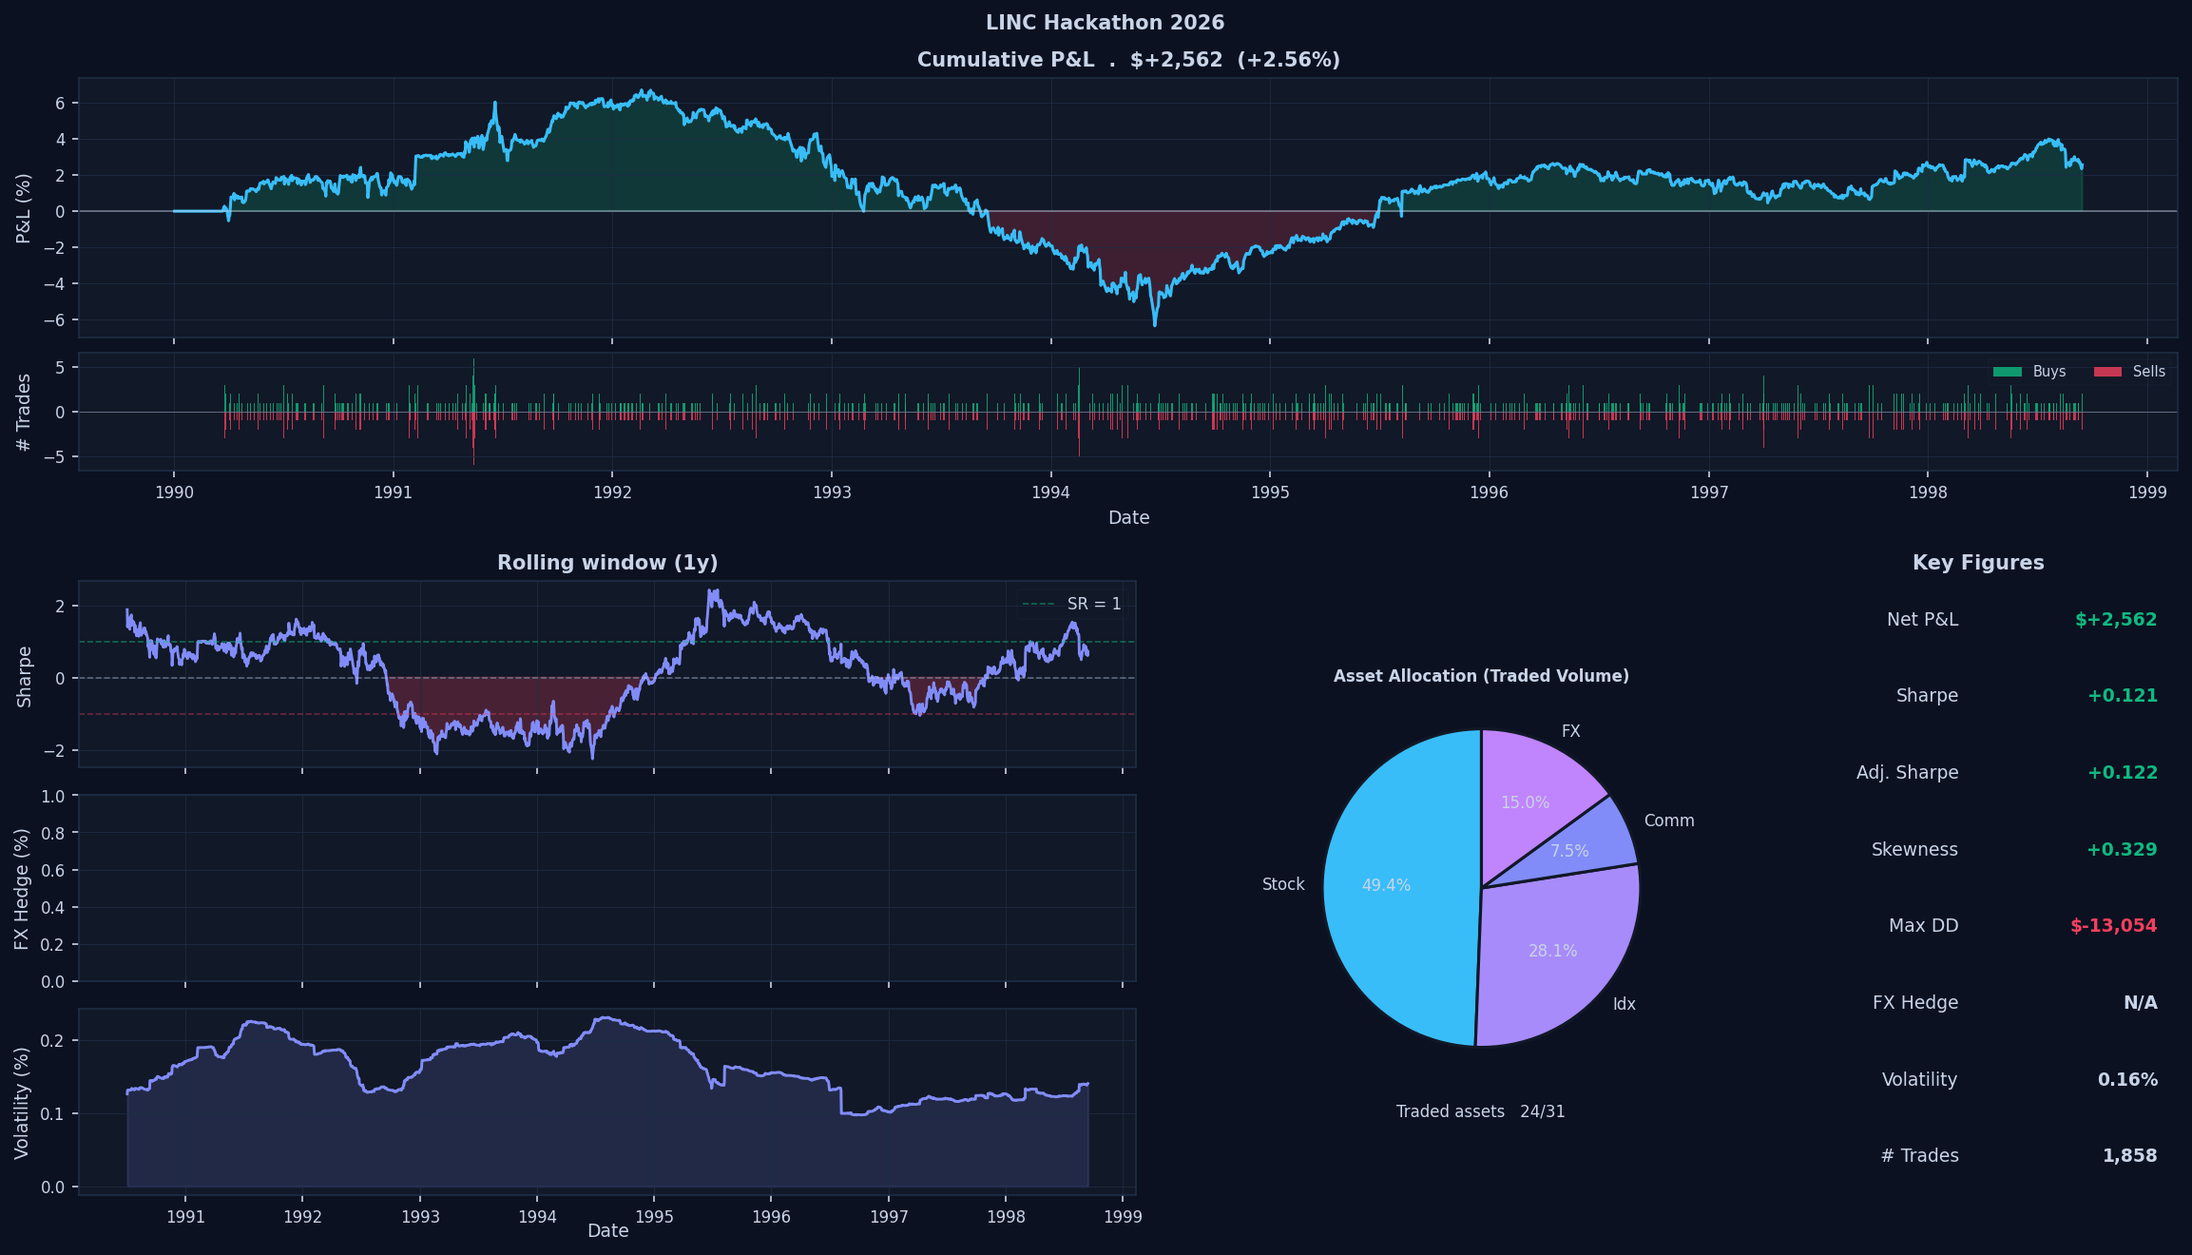
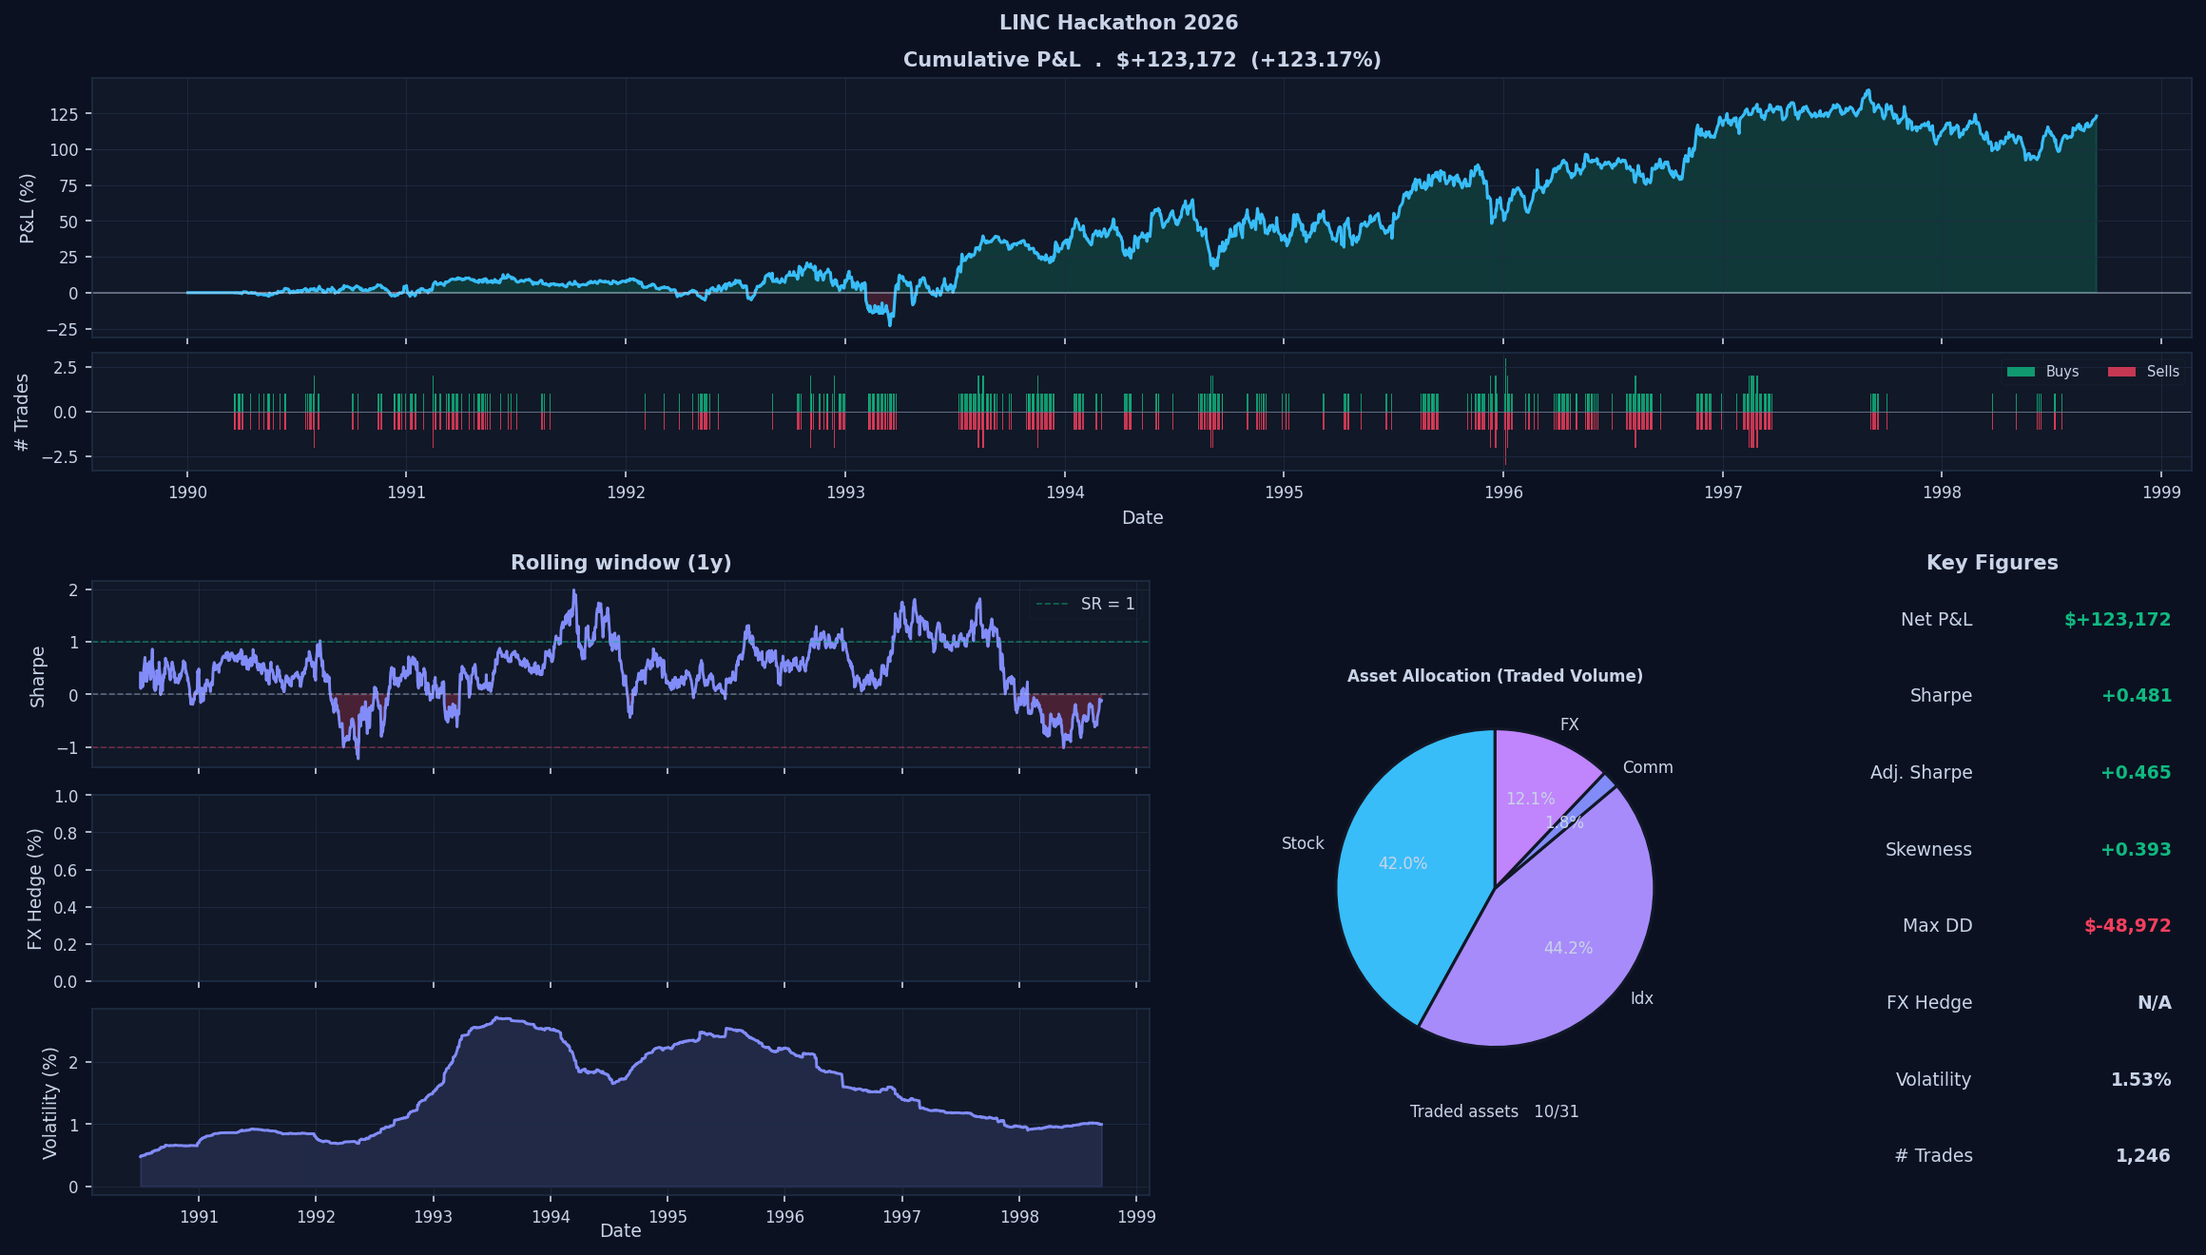
halvfärdig algoritm

diff --git a/main_algorithm.py b/main_algorithm.py
@@ -3,17 +3,27 @@ import numpy as np
 from trading_simulator import TradingSimulator
 import volatility_sisr
 import correlation_sisr
+import matplotlib.pyplot as plt 
 
-def calculate_zscore(hist1, hist2):
+# BYT UT MOT DENNA:
+def calculate_zscore(hist1, hist2, vol1, vol2, rho):
     """Beräknar Z-score för spreaden mellan två historiska pris-serier"""
     # Vi använder log-priser för att få procentuell spridning
     spread = np.log(np.array(hist1)) - np.log(np.array(hist2))
-    mu = np.mean(spread)#kolla på om man vill begränsa fönsterstorleken
-    sigma = np.std(spread)#kolla på att ändra till partikelfilter
+    mu = np.mean(spread) 
     
+    # RÄTTNING: Volatilitet (sigma) måste kvadreras för att bli varians
+    var1 = vol1**2
+    var2 = vol2**2
+    
+    # RÄTTNING: Variansen för en differens (A - B) beräknas med ett MINUSTECKEN före kovariansen
+    variance_spread = var1 + var2 - 2 * vol1 * vol2 * rho
+    sigma = np.sqrt(max(variance_spread, 1e-8))
     if sigma == 0: 
         return 0.0
+        
     return (spread[-1] - mu) / sigma
+
 
 def main_algorithm(row_pos, cash, portfolio, signal_prices, data):
     orders = []
@@ -70,7 +80,10 @@ def main_algorithm(row_pos, cash, portfolio, signal_prices, data):
     
     for pair_key, p_data in open_pairs.items():
         a1, a2 = pair_key
-        z = calculate_zscore(history[a1], history[a2])
+        idx1 = corr_manager.asset_to_idx[a1]
+        idx2 = corr_manager.asset_to_idx[a2]
+        rho_today = current_matrix[idx1, idx2]
+        z = calculate_zscore(history[a1], history[a2], vols_today[a1], vols_today[a2], rho_today)
         direction = p_data['direction']
         
         exit_trade = False
@@ -105,7 +118,7 @@ def main_algorithm(row_pos, cash, portfolio, signal_prices, data):
     # 4. HITTA OCH ÖPPNA NYA PAIRS
     # ---------------------------------------------------------
     # Hämta de topp 10 mest korrelerade paren idag
-    top_10 = correlation_sisr.get_top_correlations(current_matrix, all_assets, top_n=10)
+    top_10 = correlation_sisr.get_top_correlations(current_matrix, all_assets, top_n=1)
     
     for item in top_10:
         rho = item['value']
@@ -117,18 +130,17 @@ def main_algorithm(row_pos, cash, portfolio, signal_prices, data):
         # Dela upp stringen för att få fram tillgångarna (ex "Comm_01 & Comm_02")
         a1, a2 = item['pair'].split(' & ')
         pair_key = (a1, a2)
-        
-        # Kolla så vi inte redan har en öppen trade för detta par
-        if pair_key in open_pairs or (a2, a1) in open_pairs: #kanske ta bort denna sen!
-            continue
-            
-        # Beräkna prisspridningen i standardavvikelser
-        z = calculate_zscore(history[a1], history[a2])
+
+        # NY KOD: Översätt namn till index först
+        idx1 = corr_manager.asset_to_idx[a1]
+        idx2 = corr_manager.asset_to_idx[a2]
+        rho_today = current_matrix[idx1, idx2]
+        z = calculate_zscore(history[a1], history[a2], vols_today[a1], vols_today[a2], rho_today)
         
         # Handla endast om spridningen är onormalt stor
         if abs(z) > params['z_entry']:
             
-            # Insats: 5% av totala kassan per "ben" i paret
+            # Insats: 1% av totala kassan per "ben" i paret
             notional = cash * 0.05
             q1 = int(notional / signal_prices[a1])
             q2 = int(notional / signal_prices[a2])
@@ -150,11 +162,17 @@ def main_algorithm(row_pos, cash, portfolio, signal_prices, data):
 
     return orders
 
+
+
 def run_backtest():
     print("Laddar prisdata...")
     prices = pd.read_csv('prices.csv', index_col='Date', parse_dates=['Date'])
+    # ---------------------------------------------------------
+    # GAMMAL KOD: 
     all_assets = prices.columns.tolist()
-    
+    # ---------------------------------------------------------
+    # NY KOD: Välj exakt vilka två tillgångar du vill handla
+    #all_assets = ['Stock_09', 'Idx_04']  # Byt ut mot de du vill testa!
     print(f"Initierar korrelationsmatris och volatilitetsfilter för {len(all_assets)} tillgångar...")
     corr_manager = correlation_sisr.DynamicCorrelationMatrix(all_assets)
     vol_filters = {}
@@ -178,11 +196,11 @@ def run_backtest():
         'history': {asset: [] for asset in all_assets},
         'open_pairs': {}, 
         'params': {
-            'window': 60,         # Dagar för rullande medelvärde
+            'window': 55,         # Dagar för rullande medelvärde
             'corr_thresh': 0.75,  # Lägsta korrelation för att överväga paret
-            'z_entry': 2.0,       # Starta bettet vid 2 standardavvikelser
-            'z_exit': 0.5,        # Ta vinst när Z går under 0.5
-            'z_stop': 4.0         # Panik-sälj om spridningen fortsätter till 4.0
+            'z_entry': 4.0,       # Starta bettet vid 2 standardavvikelser
+            'z_exit': 0.01,        # Ta vinst när Z går under 0.5
+            'z_stop': 8.0         # Panik-sälj om spridningen fortsätter till 4.0
         }
     }
     
@@ -202,5 +220,176 @@ def run_backtest():
     simulator.save_results("pairs_orders.csv", "pairs_portfolio.csv")
     simulator.plot_performance(prices, save_file="pairs_performance.png")
 
+
+def plot_pairs_trade(prices_file, orders_file, asset1, asset2, window=60, z_entry=2.0, z_exit=0.5):
+    print(f"Ritar upp Pairs Trade-analys för {asset1} och {asset2}...")
+    
+    # 1. Ladda data
+    prices_df = pd.read_csv(prices_file, index_col='Date', parse_dates=True)
+    try:
+        orders_df = pd.read_csv(orders_file, parse_dates=['Date'])
+    except FileNotFoundError:
+        print(f"Kunde inte hitta {orders_file}. Kör backtestet först!")
+        return
+
+    # Hantera kolumnnamn (Ticker vs Asset)
+    col_ticker = 'Ticker' if 'Ticker' in orders_df.columns else 'Asset'
+    
+    # 2. Beräkna den historiska spreaden och Z-score (exakt som i algoritmen)
+    p1 = prices_df[asset1]
+    p2 = prices_df[asset2]
+    
+    # Log-spread
+    spread = np.log(p1) - np.log(p2)
+    
+    # Rullande Z-score
+    rolling_mean = spread.rolling(window=window).mean()
+    rolling_std = spread.rolling(window=window).std()
+    z_score = (spread - rolling_mean) / rolling_std
+
+    # 3. Hitta de dagar då BÅDA tillgångarna handlades (våra entry/exits)
+    o1 = orders_df[orders_df[col_ticker] == asset1]
+    o2 = orders_df[orders_df[col_ticker] == asset2]
+    
+    # Slå ihop dem på datum för att hitta par-transaktionerna
+    pair_trades = pd.merge(o1, o2, on='Date', suffixes=('_1', '_2'))
+    
+    # -- RITA GRAFERNA --
+    fig, (ax1, ax2) = plt.subplots(2, 1, figsize=(14, 10), sharex=True, gridspec_kw={'height_ratios': [2, 1]})
+    
+    # --- ÖVRE GRAFEN: Normaliserade priser ---
+    # Vi delar med första giltiga priset så att båda börjar på 1.0 (enklare att jämföra)
+    ax1.plot(prices_df.index, p1 / p1.iloc[window], label=f'{asset1}', color='blue', linewidth=1.5)
+    ax1.plot(prices_df.index, p2 / p2.iloc[window], label=f'{asset2}', color='orange', linewidth=1.5)
+    ax1.set_title(f'Pairs Trading Analys: {asset1} vs {asset2}', fontsize=16, fontweight='bold')
+    ax1.set_ylabel('Normaliserat Pris', fontsize=12)
+    ax1.legend(loc='upper left')
+    ax1.grid(True, linestyle='--', alpha=0.5)
+
+    # --- UNDRE GRAFEN: Z-score och signaler ---
+    ax2.plot(prices_df.index, z_score, label='Z-score (Spread)', color='purple', linewidth=1.5)
+    
+    # Rita ut våra trigger-linjer
+    ax2.axhline(z_entry, color='red', linestyle='--', alpha=0.6, label=f'Entry (+{z_entry})')
+    ax2.axhline(-z_entry, color='green', linestyle='--', alpha=0.6, label=f'Entry (-{z_entry})')
+    ax2.axhline(z_exit, color='gray', linestyle=':', alpha=0.6, label=f'Exit (+{z_exit})')
+    ax2.axhline(-z_exit, color='gray', linestyle=':', alpha=0.6, label=f'Exit (-{z_exit})')
+    ax2.axhline(0, color='black', linewidth=1)
+
+    # Lägg ut markörer för tradesen
+    for _, trade in pair_trades.iterrows():
+        date = trade['Date']
+        act1 = trade['Action_1']
+        
+        # Hämta Z-scoret för just denna dag
+        z_val = z_score.loc[date]
+        
+        # Logik för att färga pilarna:
+        if act1 == 'SELL' and z_val > 1.0:
+            # Vi blankade Asset 1 för att Z var högt (Övervärderad)
+            ax2.scatter(date, z_val, color='red', marker='v', s=150, zorder=5, edgecolors='black')
+        elif act1 == 'BUY' and z_val < -1.0:
+            # Vi köpte Asset 1 för att Z var lågt (Undervärderad)
+            ax2.scatter(date, z_val, color='green', marker='^', s=150, zorder=5, edgecolors='black')
+        else:
+            # Om Z är nära 0, är det en stängning (Exit)
+            ax2.scatter(date, z_val, color='yellow', marker='X', s=150, zorder=5, edgecolors='black')
+
+    ax2.set_ylabel('Z-Score', fontsize=12)
+    ax2.set_xlabel('Datum', fontsize=12)
+    ax2.legend(loc='upper left', fontsize=10)
+    ax2.grid(True, linestyle='--', alpha=0.5)
+    
+    plt.tight_layout()
+    plt.show()
+
+import pandas as pd
+
+def print_trade_history(orders_file='pairs_orders.csv'):
+    print("\n" + "="*65)
+    print(" 📊 TRADE HISTORIK (PAIRS TRADING)")
+    print("="*65)
+    
+    try:
+        orders_df = pd.read_csv(orders_file, parse_dates=['Date'])
+    except FileNotFoundError:
+        print(f"Kunde inte hitta filen '{orders_file}'. Har backtestet körts?")
+        return
+        
+    if orders_df.empty:
+        print("Orderboken är tom! Algoritmen gjorde inga trades.")
+        return
+
+    # Hantera kolumnnamn
+    col_ticker = 'Ticker' if 'Ticker' in orders_df.columns else 'Asset'
+    
+    # Gruppera ordrarna per datum (Eftersom vi alltid köper och säljer samtidigt)
+    grouped_orders = orders_df.groupby('Date')
+    
+    open_positions = {}
+    completed_trades = []
+    
+    for date, group in grouped_orders:
+        # En pairs trade innebär att vi har exakt 2 rader per datum
+        if len(group) == 2:
+            rows = group.to_dict('records')
+            
+            # Sortera alfabetiskt så vi alltid får samma ordning (T.ex. Comm_01 före Comm_02)
+            rows_sorted = sorted(rows, key=lambda x: x[col_ticker])
+            
+            asset1 = rows_sorted[0][col_ticker]
+            asset2 = rows_sorted[1][col_ticker]
+            action1 = rows_sorted[0]['Action']
+            pair_key = (asset1, asset2)
+            
+            # Om vi INTE har detta par i minnet, är det en ENTRY
+            if pair_key not in open_positions:
+                # Kolla om vi är Långa A1 eller Korta A1
+                direction = f"KÖP {asset1} / BLANKA {asset2}" if action1 == 'BUY' else f"BLANKA {asset1} / KÖP {asset2}"
+                
+                open_positions[pair_key] = {
+                    'entry_date': date,
+                    'direction': direction
+                }
+                
+            # Om vi REDAN HAR paret i minnet, är detta en EXIT (stängning)
+            else:
+                entry_data = open_positions.pop(pair_key)
+                days_held = (date - entry_data['entry_date']).days
+                
+                completed_trades.append({
+                    'pair': f"{asset1} & {asset2}",
+                    'direction': entry_data['direction'],
+                    'entry': entry_data['entry_date'].strftime('%Y-%m-%d'),
+                    'exit': date.strftime('%Y-%m-%d'),
+                    'duration': days_held
+                })
+                
+    # --- SKRIV UT RESULTATET ---
+    if not completed_trades:
+        print("Inga stängda trades hittades.")
+        
+    for i, t in enumerate(completed_trades, 1):
+        print(f"Trade #{i}: {t['pair']}")
+        print(f"  Riktning:   {t['direction']}")
+        print(f"  Tidsfönster:{t['entry']}  -->  {t['exit']} ({t['duration']} dagar)")
+        print("-" * 65)
+        
+    # Om algoritmen låg kvar i trades när 8-årsperioden tog slut
+    if open_positions:
+        print("\n⚠ ÖPPNA POSITIONER VID BACKTESTETS SLUT:")
+        for pair_key, data in open_positions.items():
+            print(f"  {pair_key[0]} & {pair_key[1]} | {data['direction']} | Sedan: {data['entry_date'].strftime('%Y-%m-%d')}")
+        print("="*65)
+
+# ==========================================
+# TESTA FUNKTIONEN (Lägg detta längst ner i din fil)
+# ==========================================
+
 if __name__ == "__main__":
     run_backtest()
+    print_trade_history('pairs_orders.csv')
+    
+    # Byt ut 'Comm_03' och 'Comm_04' mot de två tillgångar du vill granska.
+    # Kolla i din utskrift från backtestet vilket par som hade bäst korrelation!
+    #plot_pairs_trade('prices.csv', 'pairs_orders.csv', 'Stock_09', 'Idx_04')

diff --git a/plot_pairs_trade.py b/plot_pairs_trade.py
@@ -1,0 +1,85 @@
+import pandas as pd
+import numpy as np
+import matplotlib.pyplot as plt 
+
+def plot_pairs_trade(prices_file, orders_file, asset1, asset2, window=60, z_entry=2.0, z_exit=0.5):
+    print(f"Ritar upp Pairs Trade-analys för {asset1} och {asset2}...")
+    
+    # 1. Ladda data
+    prices_df = pd.read_csv(prices_file, index_col='Date', parse_dates=True)
+    try:
+        orders_df = pd.read_csv(orders_file, parse_dates=['Date'])
+    except FileNotFoundError:
+        print(f"Kunde inte hitta {orders_file}. Kör backtestet först!")
+        return
+
+    # Hantera kolumnnamn (Ticker vs Asset)
+    col_ticker = 'Ticker' if 'Ticker' in orders_df.columns else 'Asset'
+    
+    # 2. Beräkna den historiska spreaden och Z-score (exakt som i algoritmen)
+    p1 = prices_df[asset1]
+    p2 = prices_df[asset2]
+    
+    # Log-spread
+    spread = np.log(p1) - np.log(p2)
+    
+    # Rullande Z-score
+    rolling_mean = spread.rolling(window=window).mean()
+    rolling_std = spread.rolling(window=window).std()
+    z_score = (spread - rolling_mean) / rolling_std
+
+    # 3. Hitta de dagar då BÅDA tillgångarna handlades (våra entry/exits)
+    o1 = orders_df[orders_df[col_ticker] == asset1]
+    o2 = orders_df[orders_df[col_ticker] == asset2]
+    
+    # Slå ihop dem på datum för att hitta par-transaktionerna
+    pair_trades = pd.merge(o1, o2, on='Date', suffixes=('_1', '_2'))
+    
+    # -- RITA GRAFERNA --
+    fig, (ax1, ax2) = plt.subplots(2, 1, figsize=(14, 10), sharex=True, gridspec_kw={'height_ratios': [2, 1]})
+    
+    # --- ÖVRE GRAFEN: Normaliserade priser ---
+    # Vi delar med första giltiga priset så att båda börjar på 1.0 (enklare att jämföra)
+    ax1.plot(prices_df.index, p1 / p1.iloc[window], label=f'{asset1}', color='blue', linewidth=1.5)
+    ax1.plot(prices_df.index, p2 / p2.iloc[window], label=f'{asset2}', color='orange', linewidth=1.5)
+    ax1.set_title(f'Pairs Trading Analys: {asset1} vs {asset2}', fontsize=16, fontweight='bold')
+    ax1.set_ylabel('Normaliserat Pris', fontsize=12)
+    ax1.legend(loc='upper left')
+    ax1.grid(True, linestyle='--', alpha=0.5)
+
+    # --- UNDRE GRAFEN: Z-score och signaler ---
+    ax2.plot(prices_df.index, z_score, label='Z-score (Spread)', color='purple', linewidth=1.5)
+    
+    # Rita ut våra trigger-linjer
+    ax2.axhline(z_entry, color='red', linestyle='--', alpha=0.6, label=f'Entry (+{z_entry})')
+    ax2.axhline(-z_entry, color='green', linestyle='--', alpha=0.6, label=f'Entry (-{z_entry})')
+    ax2.axhline(z_exit, color='gray', linestyle=':', alpha=0.6, label=f'Exit (+{z_exit})')
+    ax2.axhline(-z_exit, color='gray', linestyle=':', alpha=0.6, label=f'Exit (-{z_exit})')
+    ax2.axhline(0, color='black', linewidth=1)
+
+    # Lägg ut markörer för tradesen
+    for _, trade in pair_trades.iterrows():
+        date = trade['Date']
+        act1 = trade['Action_1']
+        
+        # Hämta Z-scoret för just denna dag
+        z_val = z_score.loc[date]
+        
+        # Logik för att färga pilarna:
+        if act1 == 'SELL' and z_val > 1.0:
+            # Vi blankade Asset 1 för att Z var högt (Övervärderad)
+            ax2.scatter(date, z_val, color='red', marker='v', s=150, zorder=5, edgecolors='black')
+        elif act1 == 'BUY' and z_val < -1.0:
+            # Vi köpte Asset 1 för att Z var lågt (Undervärderad)
+            ax2.scatter(date, z_val, color='green', marker='^', s=150, zorder=5, edgecolors='black')
+        else:
+            # Om Z är nära 0, är det en stängning (Exit)
+            ax2.scatter(date, z_val, color='yellow', marker='X', s=150, zorder=5, edgecolors='black')
+
+    ax2.set_ylabel('Z-Score', fontsize=12)
+    ax2.set_xlabel('Datum', fontsize=12)
+    ax2.legend(loc='upper left', fontsize=10)
+    ax2.grid(True, linestyle='--', alpha=0.5)
+    
+    plt.tight_layout()
+    plt.show()

diff --git a/correlation_sisr.py b/correlation_sisr.py
@@ -147,7 +147,7 @@ def test_full_matrix_step_by_step():
         current_matrix = corr_manager.update(returns_today, vols_today)
         
         # Hämta de 10 högsta
-        top_10 = get_top_correlations(current_matrix, all_assets, top_n=10)
+        top_10 = get_top_correlations(current_matrix, all_assets, top_n=1)
         
         print(f"\n--- TOPP 10 KORRELATIONER DAG {t} ---")
         for i, item in enumerate(top_10, 1):
@@ -178,7 +178,7 @@ def get_top_correlations(matrix, assets, top_n=10):
     
     # Sortera listan baserat på värdet (fallande)
     sorted_corr = sorted(correlations, key=lambda x: x['value'], reverse=True)
-    
+    #print( sorted_corr[:top_n] )
     return sorted_corr[:top_n]
 
 
